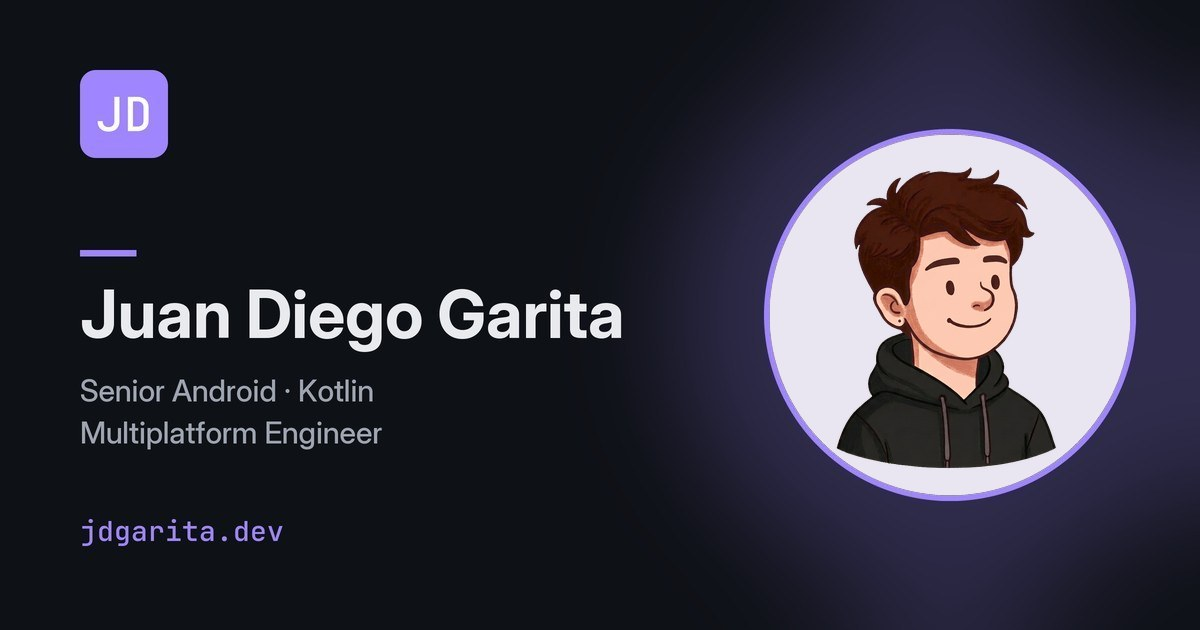
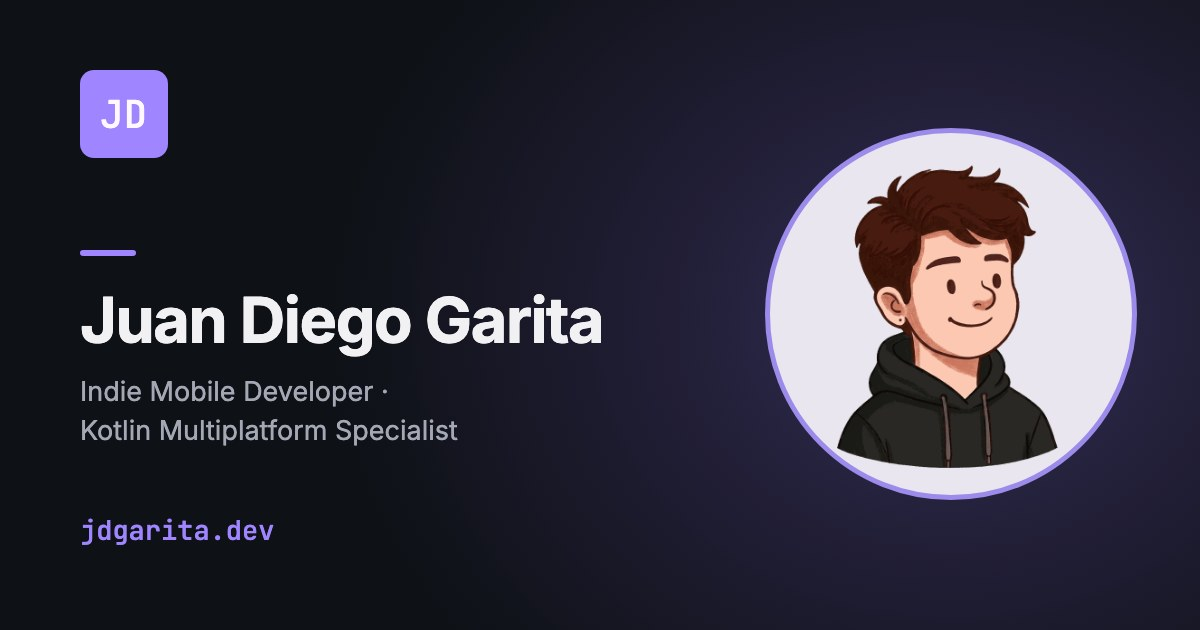
feat(seo): regenerate og-image with the indie positioning
Same layout and palette; subtitle now "Indie Mobile Developer ·
Kotlin Multiplatform Specialist" to match the page title. The og:image /
twitter:image URLs carry ?v= so link-preview caches fetch the new card.

Claude-Session: https://claude.ai/code/session_018rUL4Vdd6Ug78Tnjiq4D44

diff --git a/index.html b/index.html
@@ -108,7 +108,7 @@
     <meta property="og:url" content="https://jdgarita.dev/" />
     <meta property="og:title" content="Juan Diego Garita · Indie Mobile Developer &amp; Kotlin Multiplatform Specialist" data-i18n-attr="content:meta.title" />
     <meta property="og:description" content="Indie mobile developer and Kotlin Multiplatform specialist building Faint and Still, plus the open-source frnk toolkit. 10+ years of senior Android experience." data-i18n-attr="content:meta.description" />
-    <meta property="og:image" content="https://jdgarita.dev/image/og-image.jpg" />
+    <meta property="og:image" content="https://jdgarita.dev/image/og-image.jpg?v=2026-09-25" />
     <meta property="og:image:type" content="image/jpeg" />
     <meta property="og:image:width" content="1200" />
     <meta property="og:image:height" content="630" />
@@ -118,7 +118,7 @@
     <meta name="twitter:card" content="summary_large_image" />
     <meta name="twitter:title" content="Juan Diego Garita · Indie Mobile Developer &amp; Kotlin Multiplatform Specialist" data-i18n-attr="content:meta.title" />
     <meta name="twitter:description" content="Indie mobile developer and Kotlin Multiplatform specialist building Faint and Still, plus the open-source frnk toolkit. 10+ years of senior Android experience." data-i18n-attr="content:meta.description" />
-    <meta name="twitter:image" content="https://jdgarita.dev/image/og-image.jpg" />
+    <meta name="twitter:image" content="https://jdgarita.dev/image/og-image.jpg?v=2026-09-25" />
     <meta name="twitter:image:alt" content="Juan Diego Garita · Indie Mobile Developer &amp; Kotlin Multiplatform Specialist" data-i18n-attr="content:meta.title" />
 
     <title data-i18n="meta.title">Juan Diego Garita · Indie Mobile Developer &amp; Kotlin Multiplatform Specialist</title>
